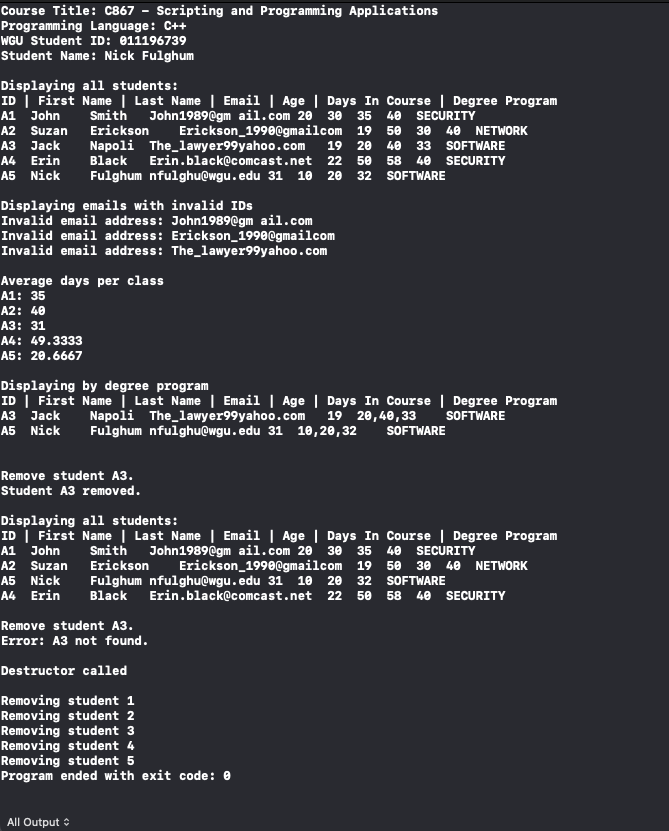
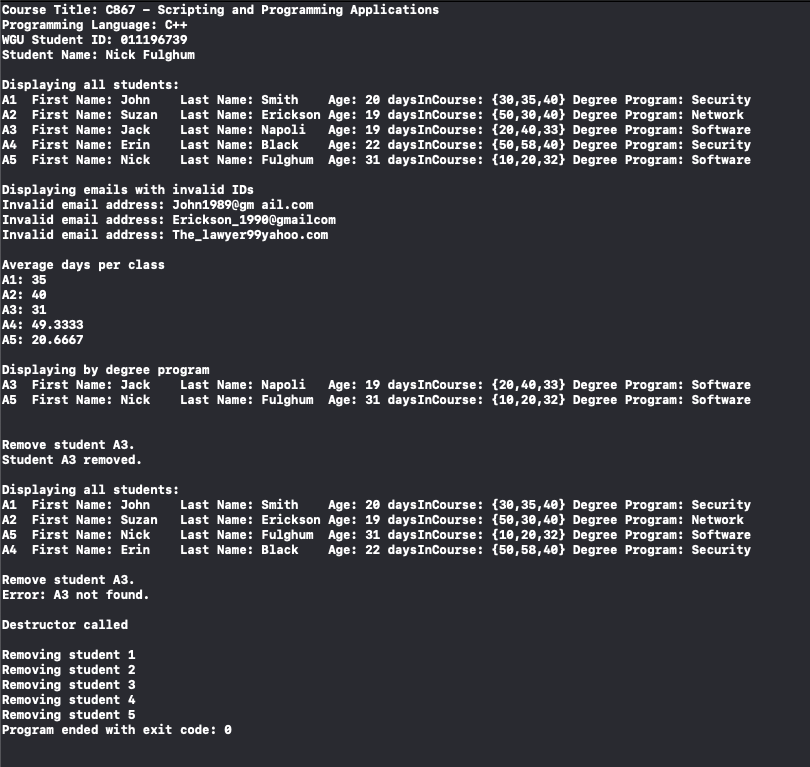
fixed errors

Changed region(s): [[0.0, 0.0, 0.9268, 1.0]]

diff --git a/c867/roster.cpp b/c867/roster.cpp
@@ -90,7 +90,6 @@ void Roster::remove(string studentID)
 
 void Roster::printAll()
 {
-    Student::printHeader();
     for (int i = 0; i <= Roster::lastIdx; i++)
     {
         classRosterArray[i]->print();
@@ -154,3 +153,33 @@ Roster::~Roster()
         classRosterArray[i] = nullptr;
     }
 }
+
+/*
+ E.  Create a Roster class (roster.cpp) by doing the following:
+
+ 1.  Create an array of pointers, classRosterArray, to hold the data provided in the “studentData Table.”
+
+ 2.  Create a student object for each student in the data table and populate classRosterArray.
+
+ a.  Parse each set of data identified in the “studentData Table.”
+
+ b.  Add each student object to classRosterArray.
+
+ 3.  Define the following functions:
+
+ a.  public void add(string studentID, string firstName, string lastName, string emailAddress, int age, int daysInCourse1, int daysInCourse2, int daysInCourse3, DegreeProgram degreeprogram)  that sets the instance variables from part D1 and updates the roster.
+
+ b.  public void remove(string studentID)  that removes students from the roster by student ID. If the student ID does not exist, the function prints an error message indicating that the student was not found.
+
+ c. public void printAll() that prints a complete tab-separated list of student data in the provided format: A1 [tab] First Name: John [tab] Last Name: Smith [tab] Age: 20 [tab]daysInCourse: {35, 40, 55} Degree Program: Security. The printAll() function should loop through all the students in classRosterArray and call the print() function for each student.
+
+ d.  public void printAverageDaysInCourse(string studentID)  that correctly prints a student’s average number of days in the three courses. The student is identified by the studentID parameter.
+
+ e.  public void printInvalidEmails() that verifies student email addresses and displays all invalid email addresses to the user.
+  
+
+ Note: A valid email should include an at sign ('@') and period ('.') and should not include a space (' ').
+  
+
+ f.  public void printByDegreeProgram(DegreeProgram degreeProgram) that prints out student information for a degree program specified by an enumerated type.
+ */

diff --git a/c867/main.cpp b/c867/main.cpp
@@ -58,3 +58,41 @@ int main()
     roster.remove("A3");
     cout << std::endl;
 }
+
+//F.  Demonstrate the program’s required functionality by adding a main() function in main.cpp, which will contain the required function calls to achieve the following results:
+//
+//1.  Print out to the screen, via your application, the course title, the programming language used, your WGU student ID, and your name.
+//
+//2.  Create an instance of the Roster class called classRoster.
+//
+//3.  Add each student to classRoster.
+//
+//4.  Convert the following pseudo code to complete the rest of the  main() function:
+//
+//classRoster.printAll();
+//
+//classRoster.printInvalidEmails();
+//
+//
+//
+////loop through classRosterArray and for each element:
+//
+//classRoster.printAverageDaysInCourse(/*current_object's student id*/);
+//
+//
+//
+//Note: For the current_object's student id, use an accessor (i.e., getter) for the classRosterArray to access the student id.
+//
+//
+//
+//classRoster.printByDegreeProgram(SOFTWARE);
+//
+//classRoster.remove("A3");
+//
+//classRoster.printAll();
+//
+//classRoster.remove("A3");
+//
+////expected: the above line should print a message saying such a student with this ID was not found.
+//
+//5.  Implement the destructor to release the memory that was allocated dynamically in Roster.

diff --git a/c867/student.cpp b/c867/student.cpp
@@ -117,3 +117,18 @@ void Student::print()
     cout << this->getDaysInCourse()[2]  << "} ";
     cout << "Degree Program: " << degreeProgramStrings[this->getDegreeProgram()] << '\n';
 }
+
+/*
+ D.  For the Student class, do the following:
+ 2.  Create each of the following functions in the Student class:
+
+ a.  an accessor (i.e., getter) for each instance variable from part D1
+
+ b.  a mutator (i.e., setter) for each instance variable from part D1
+
+ c.  All external access and changes to any instance variables of the Student class must be done using accessor and mutator functions.
+
+ d.  constructor using all of the input parameters provided in the table
+
+ e.  print() to print specific student data
+ */

diff --git a/c867/student.hpp b/c867/student.hpp
@@ -60,3 +60,23 @@ public:
 };
 
 #endif /* student_hpp */
+
+/*
+ D.  For the Student class, do the following:
+
+ 1.  Create the class Student  in the files student.h and student.cpp, which includes each of the following variables:
+
+ •  student ID
+
+ •  first name
+
+ •   last name
+
+ •  email address
+
+ •  age
+
+ •  array of number of days to complete each course
+
+ •  degree program
+ */

diff --git a/c867/README.md b/c867/README.md
@@ -19,102 +19,8 @@ You are hired as a contractor to help a university migrate an existing student s
 
 
 You must write a program containing two classes (i.e., Student and Roster). The program will maintain a current roster of students within a given course. Student data for the program include student ID, first name, last name, email address, age, an array of the number of days to complete each course, and degree program. This information can be found in the “studentData Table” below. The program will read a list of five students and use function calls to manipulate data (see part F4 in the requirements below). While parsing the list of data, the program should create student objects. The entire student list will be stored in one array of students called classRosterArray. Specific data-related output will be directed to the console.
-
  
-
-studentData Table
-
- 
-
-Student ID
-
-First Name
-
-Last Name
-
-Email
-
-Age
-
-Days in Course
-
-Degree Program
-
-A1
-
-John
-
-Smith
-
-John1989@gm ail.com
-
-20
-
-30, 35, 40
-
-SECURITY
-
-A2
-
-Suzan
-
-Erickson
-
-Erickson_1990@gmailcom
-
-19
-
-50, 30, 40
-
-NETWORK
-
-A3
-
-Jack
-
-Napoli
-
-The_lawyer99yahoo.com
-
-19
-
-20, 40, 33
-
-SOFTWARE
-
-A4
-
-Erin
-
-Black
-
-Erin.black@comcast.net
-
-22
-
-50, 58, 40
-
-SECURITY
-
-A5
-
-Your first name
-
-Your last name
-
-Your valid email address
-
-Your age
-
-Number of days to complete 3 courses
-
-SOFTWARE
-
- 
-
 The data should be input as follows:
-
- 
 
 const string studentData[] = 
 
